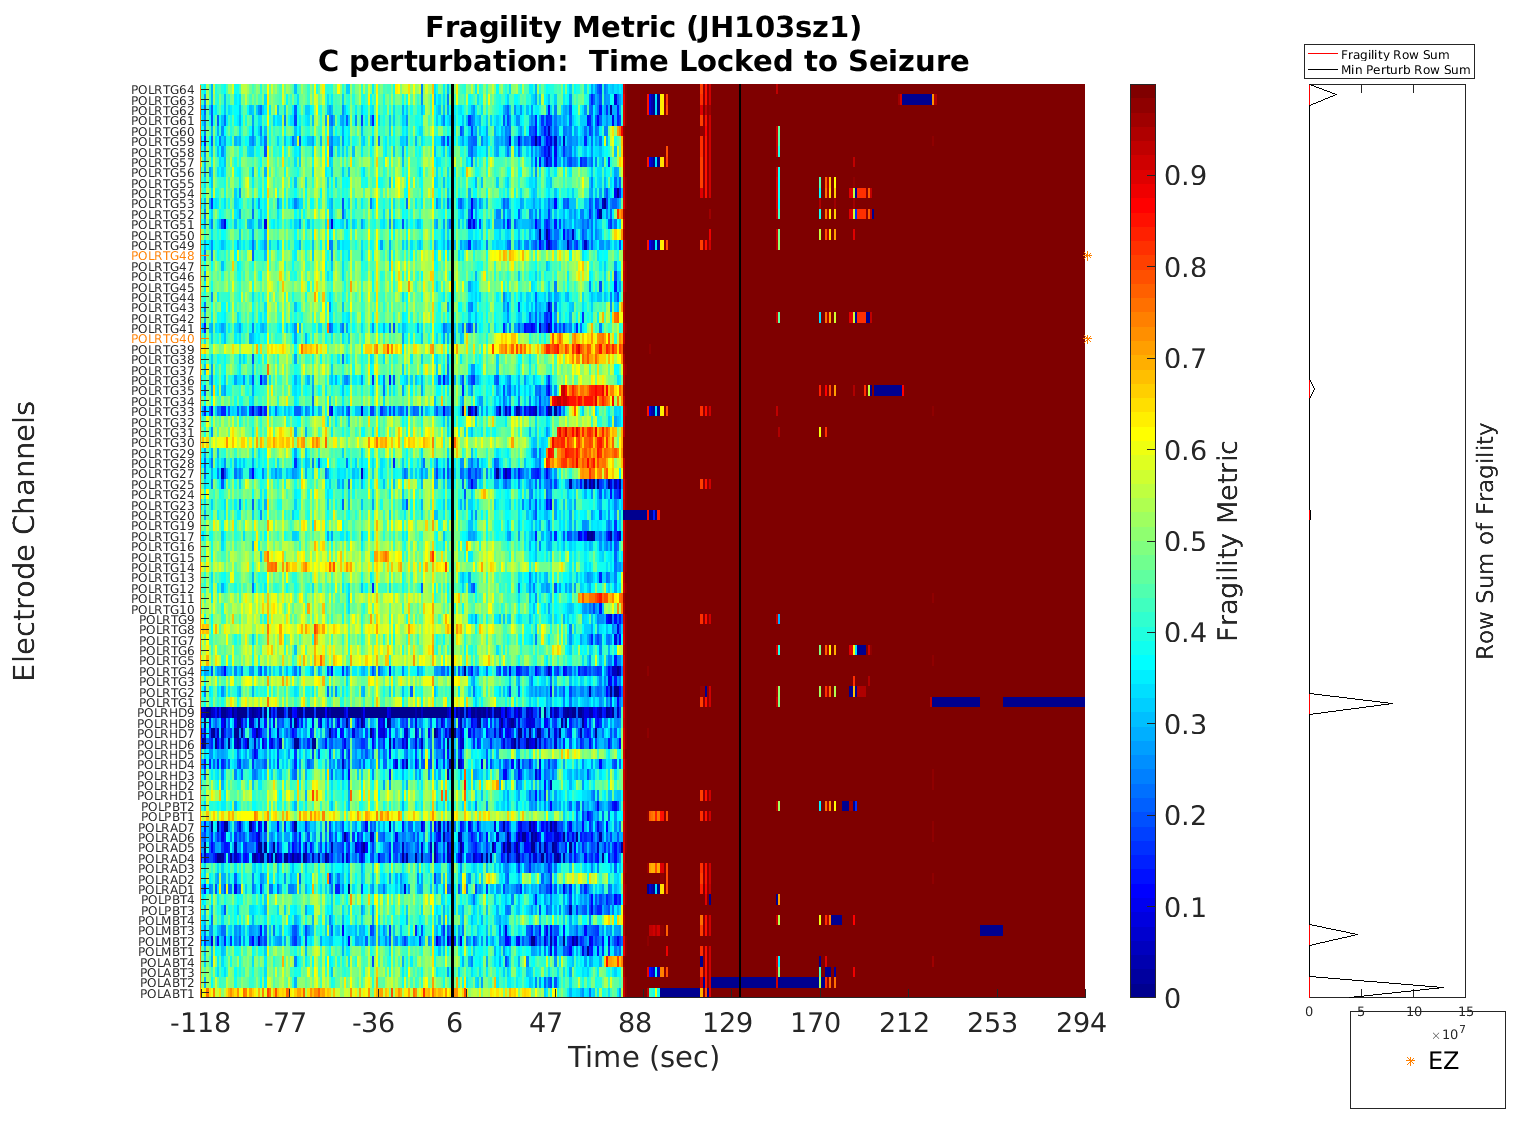
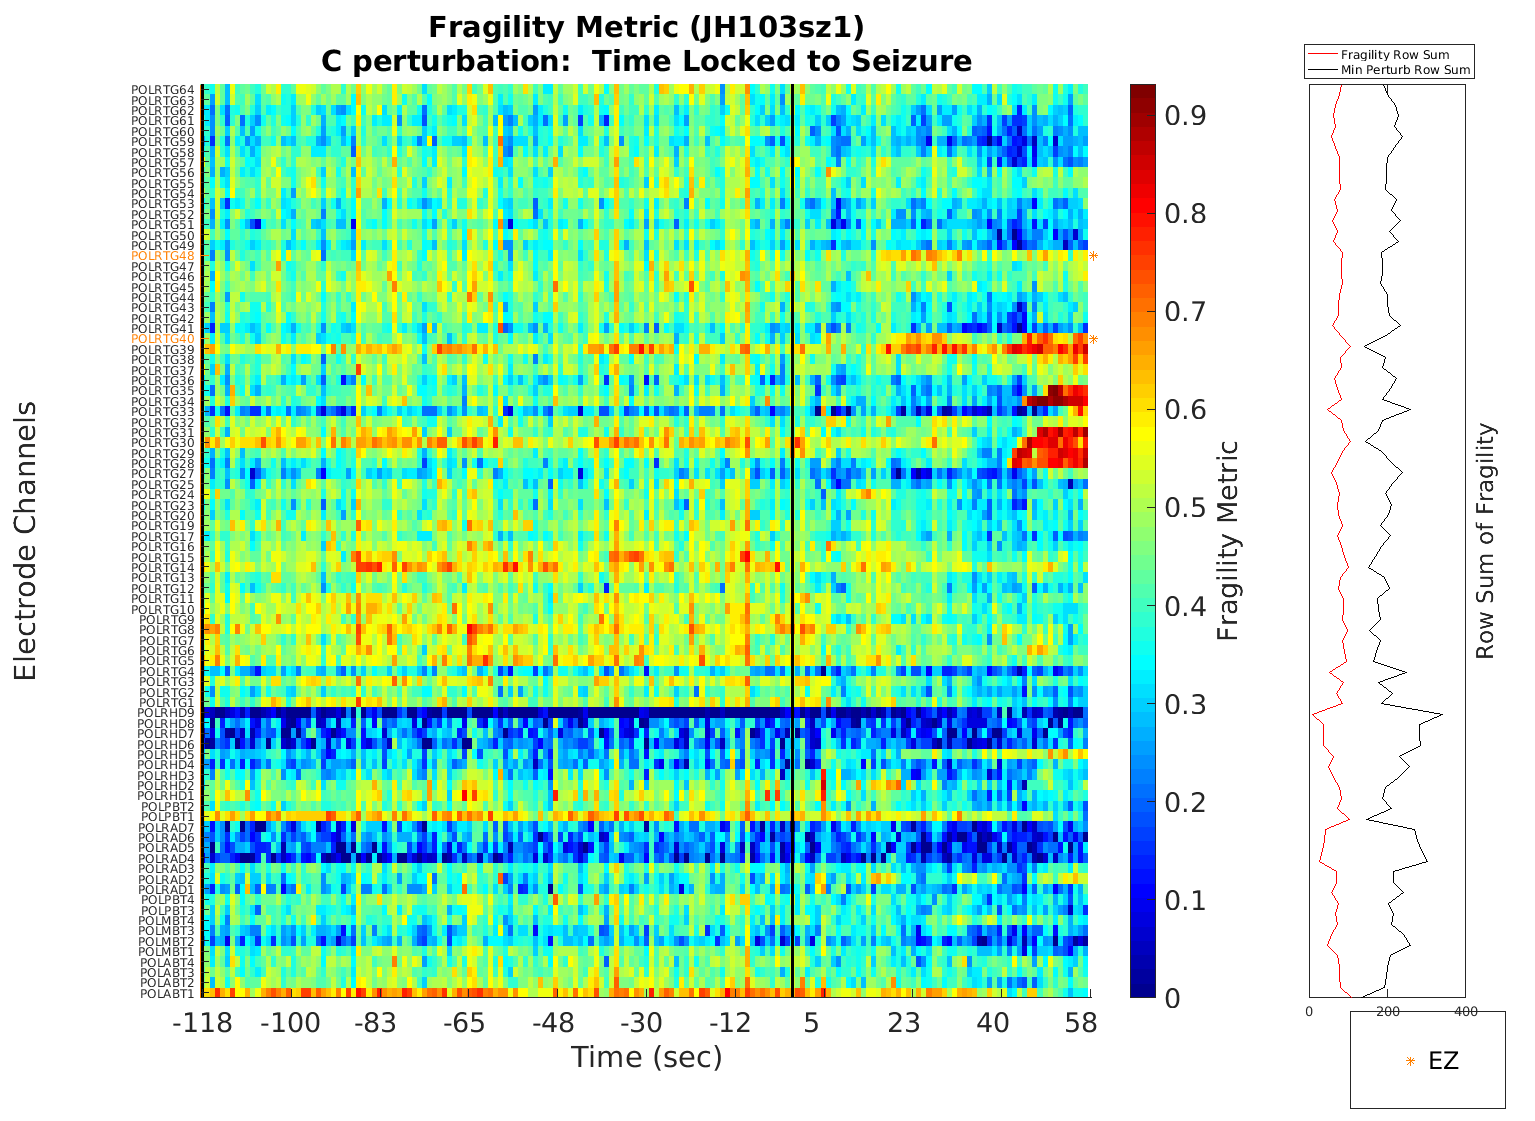
Adding figures for JH103 updated.

diff --git a/fragility_dataanalysis/runPlotsAndDOA.m b/fragility_dataanalysis/runPlotsAndDOA.m
@@ -142,6 +142,11 @@ for p=1:length(patients)
             mkdir(toSaveWeightsDir);
         end
            
+        % temp dir until I get everything fixed.
+        finalDataDir = fullfile(strcat(adjMat, num2str(winSize), ...
+            '_step', num2str(stepSize), '_freq', num2str(frequency_sampling)), strcat(perturbationType, '_perturbations', ...
+                '_radius', num2str(radius)), '_newfixedalg');
+        
          %%- Extract an example
 %         finalDataDir = toSaveFinalDataDir;
         try
@@ -159,6 +164,11 @@ for p=1:length(patients)
         minPerturb_time_chan = final_data.minNormPertMat;
         fragility_rankings = final_data.fragilityMat;
         info = final_data.info;
+        timePoints = final_data.timePoints;
+        
+        minPerturb_time_chan = minPerturb_time_chan(:, 1:seizureMarkStart+60);
+        fragility_rankings = fragility_rankings(:, 1:seizureMarkStart+60);
+        timePoints = timePoints(1:seizureMarkStart+60,:);
         
         %% 1: Extract Processed Data and Begin Plotting and Save in finalDataDir
         %%- initialize plotting args
@@ -212,6 +222,7 @@ for p=1:length(patients)
             end
         end
         
+        PLOTARGS.seizureEnd = 1;
         %% 2. Plot Min 2-Induced Norm Perturbation and Fragility Ranking
         plotMinimumPerturbation(minPerturb_time_chan, clinicalIndices, timeStart, timeEnd, PLOTARGS);
         
@@ -225,7 +236,7 @@ for p=1:length(patients)
             [perturbationType, ' perturbation: ', ' Time Locked to Seizure']};
         plotFragilityMetric(fragility_rankings, minPerturb_time_chan, clinicalIndices, timeStart, timeEnd, PLOTARGS);
         
-         close all
+%          close all
 %         analyzePerturbations(patient_id, seizure_id, plot_args, clinicalLabels);
     end
 end
